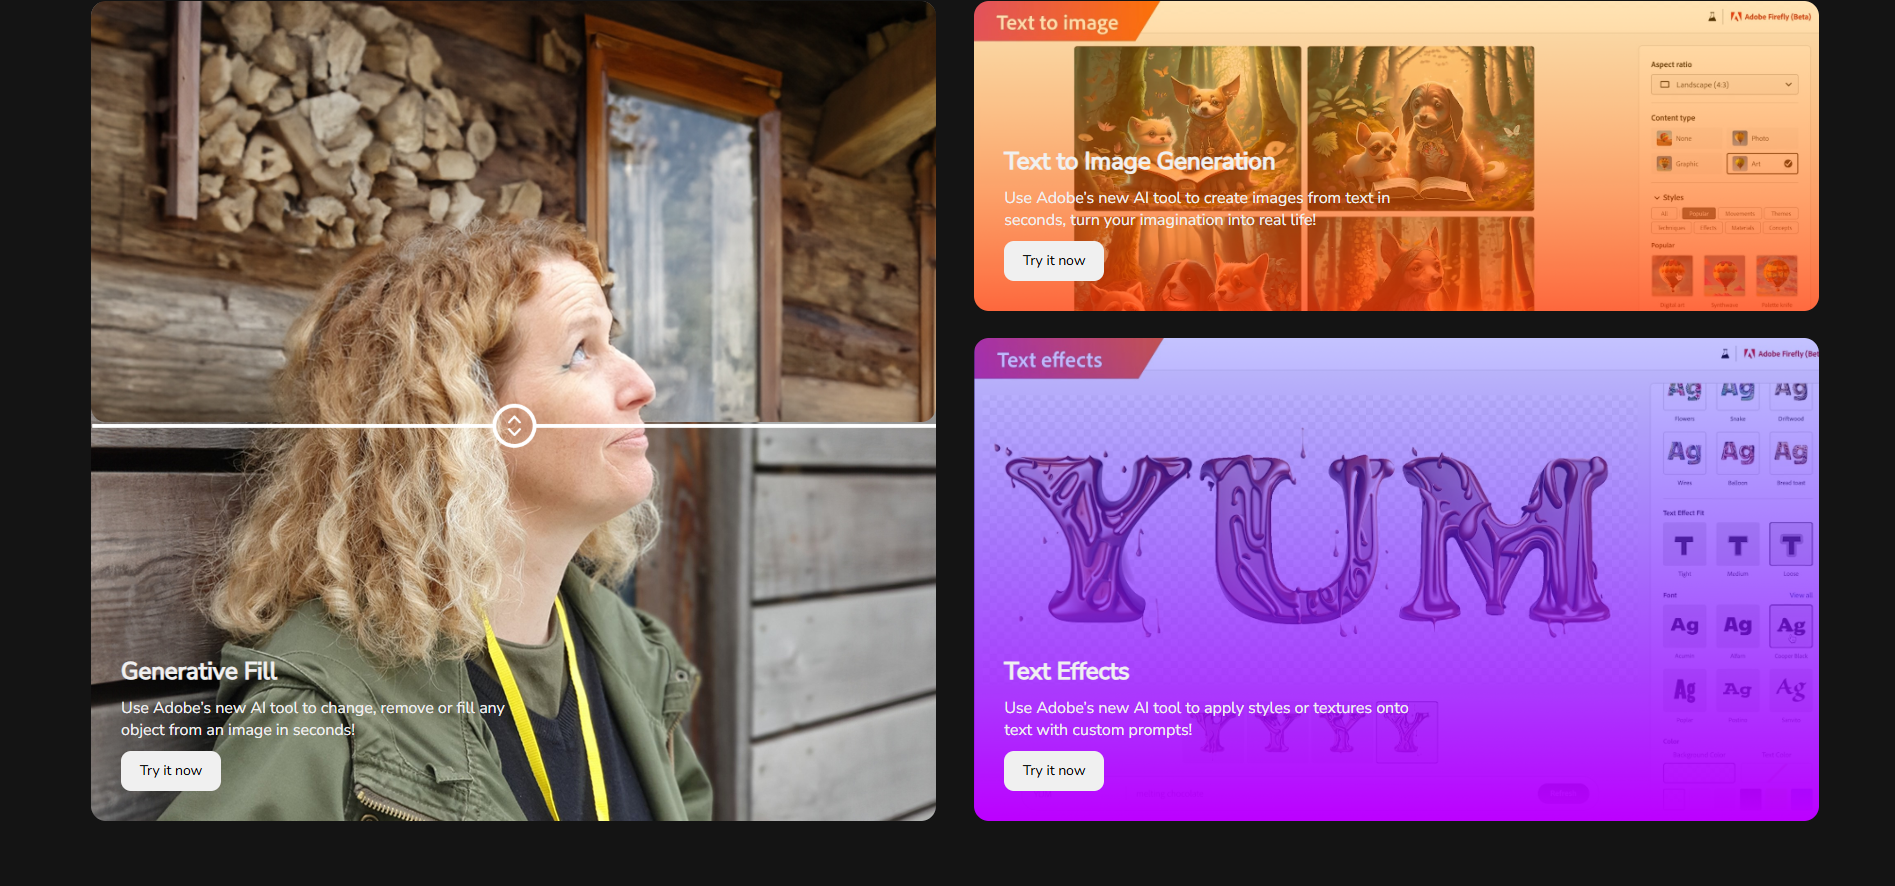
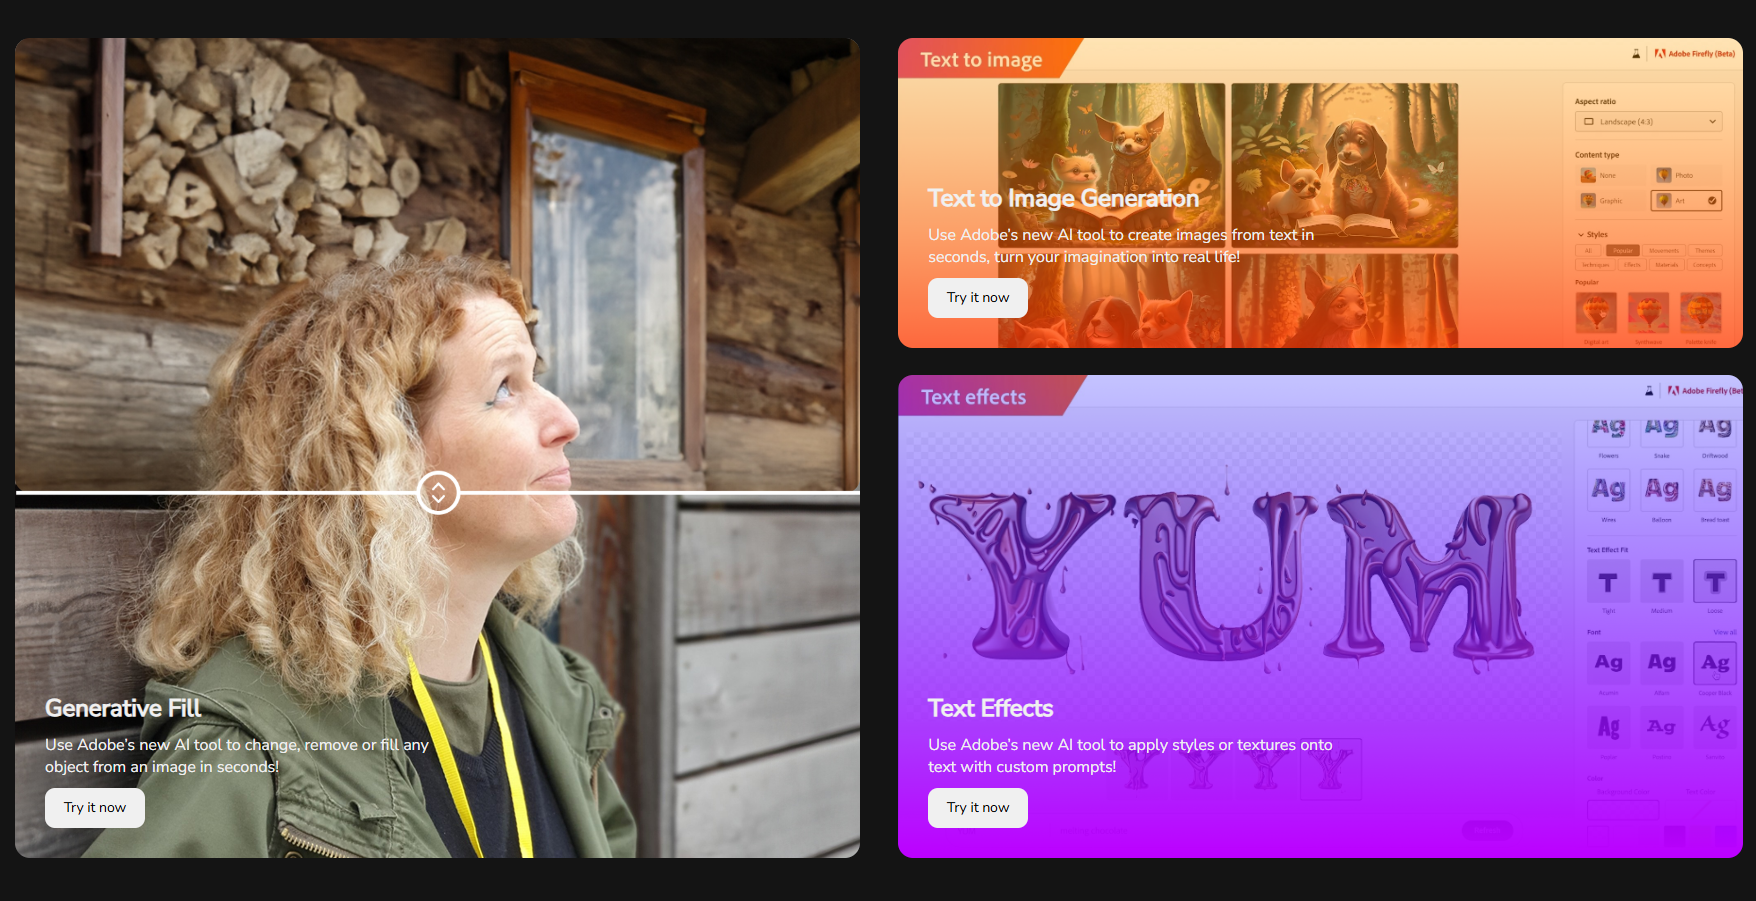
Fully mobile compatible

diff --git a/src/components/ImageSlider.css b/src/components/ImageSlider.css
@@ -1,6 +1,6 @@
 .slide-container {
-    width: 1000px;
-    height: 560px;
+    width: 1500px;
+    height: 580px;
     margin: 0 auto;
 }
   
@@ -14,15 +14,6 @@
     height: 100%;
     border-radius: 10px;
     background-position: center;
-    background-size: cover;
-    background-repeat: no-repeat;
-}
-
-.slider-styles-discotek {
-    width: 100%;
-    height: 100%;
-    border-radius: 10px;
-    background-position: 20%;
     background-size: cover;
     background-repeat: no-repeat;
 }
@@ -73,14 +64,21 @@
 
 @media screen and (max-width: 425px) {
     .slide-container {
-        height: 180px;
+        height: 200px;
         width: 400px;
     }
 }
 
 @media screen and (max-width: 375px) {
     .slide-container {
-        height: 150px;
+        height: 180px;
+        width: 350px;
+    }
+}
+
+@media screen and (max-width: 320px) {
+    .slide-container {
         width: 300px;
+        height: 150px;
     }
 }

diff --git a/src/App.css b/src/App.css
@@ -172,9 +172,16 @@ hr {
   }
 }
 
-@media screen and (max-width: 769px) {
+@media screen and (max-width: 768px) {
   .port-text {
     width: 100%;
+  }
+  .welcome-box p {
+    font-size: 14px;
+    padding-left: 10px;
+  }
+  .port-text p {
+    margin: 2rem 22px 2rem 22px;
   }
 }
 
@@ -188,10 +195,23 @@ hr {
   .welcome-box {
     width: 100%;
   }
+  .welcome-box p {
+    padding: 0;
+    margin-left: 11px
+  }
 }
 
 @media screen and (max-width: 375px) {
   .page-title h1 {
     font-size: 3rem;
+  }
+  .welcome-box p {
+    margin-left: 8px;
+  }
+}
+
+@media screen and (max-width: 320px) {
+  .welcome-box p {
+    margin-left: 4px;
   }
 }

diff --git a/src/components/DISCOTEK.jsx b/src/components/DISCOTEK.jsx
@@ -11,7 +11,7 @@ export default function DISCOTEK() {
             <h2 className="project-title">DISCOTEK Reimagined</h2>
             <div className="flex-port">
                 <div className="slide-container">
-                    <ImageSlider slides={slides} className="slider-styles-discotek"/>
+                    <ImageSlider slides={slides} className="slider-styles"/>
                 </div>
                 <div className="port-text">
                     <p>Brief: Copy the frontend of the website but making it in React instead of HTML and fixing the backend/API so that the resources in the website work</p>

diff --git a/src/components/Navbar.css b/src/components/Navbar.css
@@ -18,10 +18,6 @@
     margin-top: -1rem;
 }
 
-.navbar-links {
-    margin: 1rem 0 0 2.4rem;
-}
-
 .name {
    margin: 0 auto;
 }
@@ -68,11 +64,26 @@ header {
     background-color: #fff;
 }
 
+@media screen and (max-width: 768px) {
+    .navbar-links {
+        margin: 2.7rem 0 0 2.4rem;
+    }
+    .name {
+        margin: 0;
+    }
+}
+
+
 @media screen and (max-width: 425px) {
     .navbar {
         flex-direction: column;
     }
     .navbar-headers {
         margin-bottom: 2rem;
+        display: block;
+    }
+    .name {
+        margin: 0 auto;
+        text-align: center;
     }
 }
